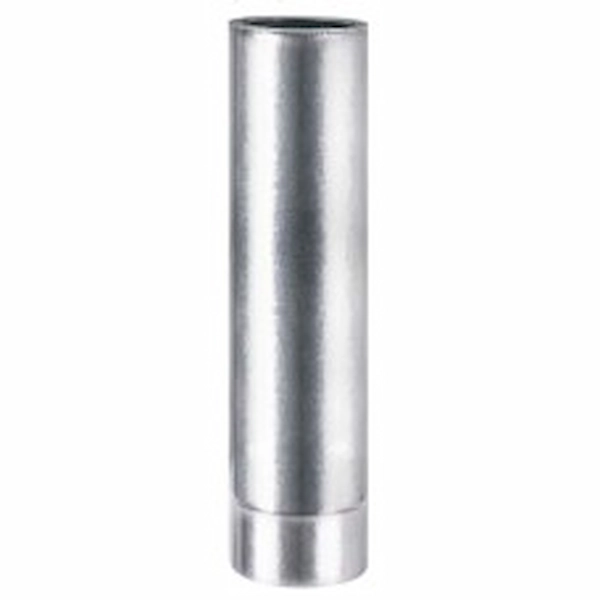
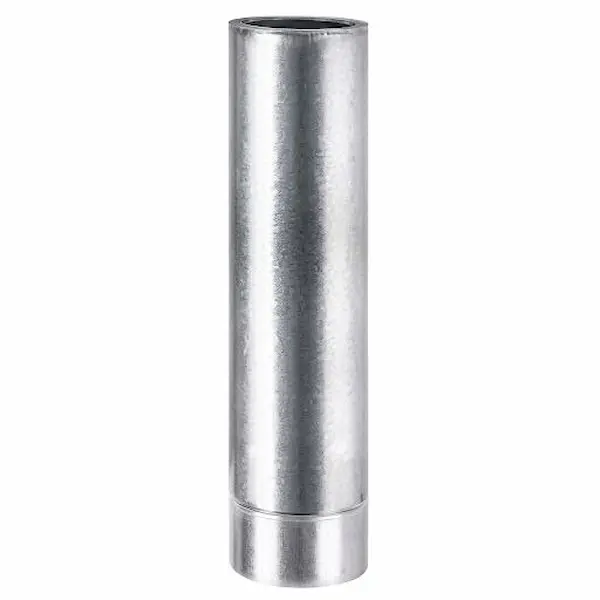
делаем седвичконфигураторе

Changed region(s): [[0.39, 0.03, 0.6, 0.06], [0.45, 0.36, 0.48, 0.51], [0.39, 0.84, 0.51, 0.87]]

diff --git a/resources/views/categories/sandwich.blade.php b/resources/views/categories/sandwich.blade.php
@@ -134,7 +134,7 @@
                 </h5>
 
                 <p class="text-muted small mb-0">
-                    Вкажіть марку сталі
+                    Вкажіть марку сталі внутрішньої труби
                     
                 </p>
 
@@ -246,18 +246,18 @@
             {{-- Прогресс --}}
             <div class="d-flex justify-content-between mb-3 small fw-semibold">
                 <span id="stepText">
-                    Крок 1 із 4
+                    Крок 1 із 5
                 </span>
 
                 <span id="percentText">
-                    25%
+                    20%
                 </span>
             </div>
 
             <div class="progress mb-4" style="height:8px;">
                 <div id="progressBar"
                      class="progress-bar bg-warning"
-                     style="width:25%">
+                     style="width:20%">
                 </div>
             </div>
 
@@ -289,15 +289,18 @@
 
                 <h2 class="fw-bold text-center mb-4">
 
-                    Оберіть діаметр
+                    Оберіть діаметр 
 
                 </h2>
 
                 <div class="row g-3">
                     @foreach([
- '100', '110', '120', '125', '130', '140', '150', '160', '180',
-                                '200', '220', '230', '250', 
-                                '300', '350', '400', '450', '500'
+ '100/160', '110/180', '120/180', '130/200', '140/200',
+                                '150/220', '160/220', '180/250', '200/260', '220/280',
+                                '230/300', '250/320', '300/360', '350/420', '400/460',
+                                '500/560',
+                                '100/200', '120/220', '130/230', '140/240',
+                                '150/250', '160/260', '180/280', '200/300'
 ] as $diameter)
 
 <div class="col-lg-2 col-md-2 col-4">
@@ -334,7 +337,7 @@
     {{-- ========================= --}}
 <div id="step2" style="display:none;">
  <h2 class="fw-bold text-center mb-2">
-        Яка нержавіюча сталь вам потрібна?
+       З якої сталі вам потрібна внутрішня труба?
     </h2>
 
     <p class="text-center text-muted mb-4">
@@ -421,7 +424,7 @@
  <div id="step3">
 
     <h2 class="fw-bold text-center mb-2">
-        Оберіть товщину сталі
+        Оберіть товщину сталі внутрішньої труби
     </h2>
 
     <p class="text-center text-muted mb-4">
@@ -435,10 +438,79 @@
 </div>
    
 </div>
- {{-- ========================= --}}
+{{-- ========================= --}}
     {{-- STEP 4 --}}
     {{-- ========================= --}}
 <div id="step4" style="display:none;">
+ 
+
+    <h2 class="fw-bold text-center mb-2">
+        Оберіть зовнішній кожух димоходу
+    </h2>
+
+    <p class="text-center text-muted mb-4">
+        Доступні варіанти.
+    </p>
+ <div class="row g-3 justify-content-center">
+
+        {{-- Н/Н --}}
+        <div class="col-lg-4 col-md-6">
+            <button
+                class="btn btn-outline-dark w-100 option-btn h-100"
+                data-step="casing"
+                data-value="н/н">
+
+                <div class="fw-bold fs-4 mb-2">
+                    Кожух нержавійка (AISI 201)
+                </div>
+
+                <span class="badge bg-success mb-3">
+                    🟢 Стандарт
+                </span>
+
+                <div class="small text-muted">
+                    Класичний варіант для зовнішнього монтажу. Висока корозійна стійкість, довговічність та естетичний вигляд.
+
+            </button>
+        </div>
+
+       
+
+        {{-- Н/ОЦ --}}
+        <div class="col-lg-4 col-md-6">
+            <button
+                class="btn btn-outline-dark w-100 option-btn h-100"
+                data-step="casing"
+                data-value="н/оц">
+
+                <div class="fw-bold fs-4 mb-2">
+                    Кожух із оцинкованої сталі 
+                </div>
+
+                <span class="badge bg-warning text-dark mb-3">
+                    💰 Економ
+                </span>
+
+                <div class="small text-muted">
+                    Доступне рішення для менш вимогливих умов експлуатації. При належному догляді та обслуговуванні служить довго.
+                </div>
+
+            </button>
+        </div>
+
+    </div>
+
+   
+
+
+   
+</div>
+
+
+ {{-- ========================= --}}
+    {{-- STEP 5 --}}
+    {{-- ========================= --}}
+<div id="step5" style="display:none;">
 
     <h2 class="fw-bold text-center mb-2">
         Який елемент вам потрібен?
@@ -603,12 +675,8 @@
 
 <section class="container-1600 py-5">
 
-    <div class="text-center mb-5">
-
-       
-
-       
-
+    <div class="text-center mb-5">    
+      
         <div class="card border-0 shadow-sm rounded-4 overflow-hidden mb-5"
      style="background: linear-gradient(135deg,#fff8e8 0%,#ffffff 100%);">
 